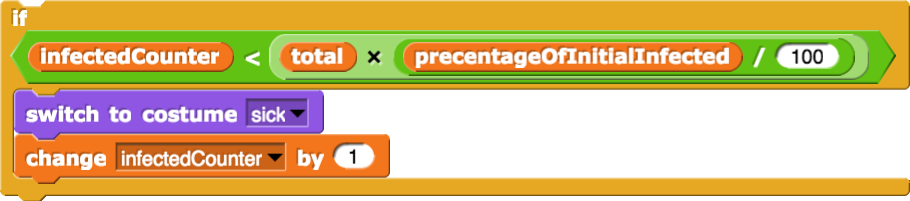
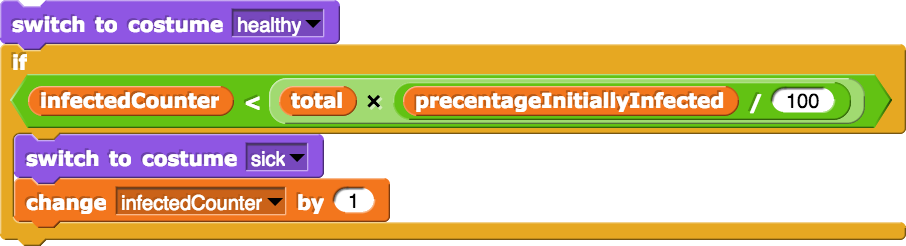
U5L3 latest edits

diff --git a/cur/programming/5-algorithms/3-simulation/3b-disease-spread-hints.html b/cur/programming/5-algorithms/3-simulation/3b-disease-spread-hints.html
@@ -16,26 +16,26 @@
                     
                 </li>
                 <li>
-                    You will need to keep track of time until the entire population is infected.<br />
+                    Keep track of time until the entire population is infected.<br />
                     <img class="indent" src="/bjc-r/img/5-algorithms/img_disease-spread/timerCode.png"  height="117" alt=""/>
 					</li>
                 <li>
-                    As you don't know ahead of time how many agents will need to be created, you can create a single agent sprite and then use the <code>create a clone of myself</code> block in Snap<em>!</em> to generate a population of size input by the user.  <br />
+                    As you don't know ahead of time how many agents will be created, create a single agent sprite and then use the <code>create a clone of myself</code> block in Snap<em>!</em> to generate a population of size input by the user.  <br />
                     <img class="indent" src="/bjc-r/img/5-algorithms/img_disease-spread/cloneCode3.png" height="84" alt=""/>
                 </li>
                 
-                    <li>You can initialize clones and give them behavior by using the <code>when I start as a clone</code> block.<br>
+                    <li>Initialize clones and give them behavior by using the <code>when I start as a clone</code> block.<br>
                     <img class="indent" src="/bjc-r/img/5-algorithms/img_disease-spread/cloneCode2.png"  height="55" alt=""/>
                     </li>
                 <li>
-                    Initialize the clones by giving them sick or healthy costume. Assign sick costumes to clones as they are being created until the user-specified percentage of the population initially infected is reached. <br>
-                 <img class="indent" src="/bjc-r/img/5-algorithms/img_disease-spread/ifPercentage.png"  height="150" alt=""/>
+                    Give the clones a sick or a healthy costume during their initialization. Assign sick costumes to clones as they are being created until the user-specified percentage of the population initially infected, is reached. <br>
+                 <img class="indent" src="/bjc-r/img/5-algorithms/img_disease-spread/ifPercentage.png"  height="185" alt=""/>
        
                   
                 </li>
                 <li>
                     Give a random direction and location to clones initially but once the timing starts, clones should move in a straight line with the user-specified speed until they hit an edge and bounce.  </li>
-                   <li> If a healthy agent collides with a sick one, it should get sick.  To do this, you will need to detect collision with a sick agent. <br />  
+                   <li> If a healthy agent collides with a sick one, it should get sick.  To do this, write code to detect collision with a sick agent. <br />  
                     <img class="indent" src="/bjc-r/img/5-algorithms/img_disease-spread/collideWithSick.png" width="631"  alt=""/><br />
                     Build this block instead of using the <img src="/bjc-r/img/5-algorithms/img_disease-spread/touchingColor.png"  height="36" alt=""/> block of the Sensing menu because Snap<em>!</em> can be very slow in sensing touching by color but is very fast sensing touching by sprite.
                 </li>

diff --git a/cur/teaching-guide/U5/lab-pages/3-simulations.html b/cur/teaching-guide/U5/lab-pages/3-simulations.html
@@ -8,7 +8,7 @@
 
     <body>
         <h2>Lab 3: Models and Simulations</h2>
-        <p>After a general introduction to the topic, students first build a simulation to model the flipping of a coin.  This introductory simulation is intended to give them experience in a simple and familiar context.  Then the students will model and simulate the spread of a disease in a population.  This is a very complex phenomena to study in real life so the  virtual model and its simulation will require significant simplification.  The agents in the population will be colored dots, blue for healthy and red for sick.  The agents will move at a constant speed and the collisions between a sick and a healthy agent will lead to the healthy agent becoming also sick. The simulation will run until the entire population is infected.  The running time of the simulation will depend on various parameters input by the user such as the population size, the percentage of the population initially sick and the speed at which the agents are moving. Students will adjust these various parameters and formulate, refine, and test hypotheses about the resulting patterns in the spread of the disease. </p> 
+        <p>After a general introduction to the topic, students first build a simulation to model the flipping of a coin.  This introductory simulation is intended to give them experience in a simple and familiar context.  Then, if selected as a "Teacher's Choice" project, the students will model and simulate the spread of a disease in a population.  This is a very complex phenomena to study in real life so the  virtual model and its simulation will require significant simplification.  The agents in the population will be colored dots, for example, blue for healthy and red for sick.  The agents will move at a constant speed and the collisions between a sick and a healthy agent will lead to the healthy agent becoming also sick. The simulation will run until the entire population is infected.  The running time of the simulation will depend on various parameters input by the user such as the population size, the percentage of the population initially sick and the speed at which the agents are moving. Students will adjust these various parameters and formulate, refine, and test hypotheses about the resulting patterns in the spread of the disease. </p> 
         
 	
 		<h3>Pacing:</h3>

diff --git a/cur/programming/5-algorithms/3-simulation/1-intro-to-simulations.html b/cur/programming/5-algorithms/3-simulation/1-intro-to-simulations.html
@@ -35,7 +35,7 @@ Models and simulations are computer representations of complex phenomena in the 
 <li>Experimenting in the real world may be <strong>unethical</strong>, such as giving a population a disease to test how fast it spreads.</li>
 </ul>
 
-<p>Computer models rarely capture the full complexity of real situations.  For example, models of global climate change might account for geological fault lines that cause earthquakes, the course of rivers, wind patterns, local plants and animals, and many other factors.  So researchers, make <em>simplifying assumptions</em> in their models, based on their past experiences making predictions.</p>
+<p>Computer models rarely capture the full complexity of real situations.  For example, models that scientist use to predict the impact of global climate change have to account for hundreds of interconnected factors such as wind patterns, the course of rivers, geological fault lines that cause earthquakes, and interactions of local plants and animals.  It would be impossible to include all of these dependencies in a model.  So, researchers have to make <em>simplifying assumptions</em> in their models, based on their past experiences making predictions.</p>
 
 <p>Researchers may use an <em>iterative design process</em>, starting with a very simple model and refining that model to make it more realistic for the next simulation.  Highly detailed models may push the limits of current computer speeds.  So, researchers may have to limit the complexity of the model.  Complex models and simulations depend on abstractions (simplifications) to avoid the many details of the real world phenomena. 
 

diff --git a/cur/programming/5-algorithms/3-simulation/2-flipping-a-coin.html b/cur/programming/5-algorithms/3-simulation/2-flipping-a-coin.html
@@ -17,10 +17,10 @@
             <ol>
                 <li>Play with the Snap<em>!</em> file <a href="http://snap.berkeley.edu/snapsource/snap.html#present:Username=bjcsolutions&ProjectName=U5L6p2CoinFlip_Teacher&hideControls" target="_blank">linked here</a> to see a possible implementation of what you are trying to achieve in the simulation.  Before starting to program, plan out the sequence of events that will occur in your simulation:<br>
                 <ul>
-                <li>When and how will the user input the desired number of flips?  What should happen if the user enters a value that is not a valid input for the number of flips?</li>
+                <li>When and how will the user input the desired number of flips?</li>
                 <li>How will the program simulate the coin toss mathematically?</li>
                 <li>How will the program simulate the coin toss visually?  What will the user see?</li>
-                <li>What are the variables to create to keep track of the important parameters in the simulation?  When should these be initialized?  When should they be updated?</li>
+                <li>What are the variables to create in order to keep track of the important parameters in the simulation?  When should these be initialized?  When should they be updated?</li>
                 
                 </ul>
                 Work through your pseudocode with a few example inputs until you have debugged it as much as possible prior to building it in Snap<em>!</em>.

diff --git a/cur/programming/5-algorithms/3-simulation/2b-flipping-a-coin-hints.html b/cur/programming/5-algorithms/3-simulation/2b-flipping-a-coin-hints.html
@@ -13,7 +13,7 @@
             <ol>
                 <li>Create variables <var>Heads</var>, <var>Tails</var>, <var>Total</var> to keep track of the number of heads, tails and total tosses, and initialize these variables.</li>
                 <li>Create a custom <code>TossCoin</code> block that simulates a coin being tossed (by rapidly switching between Heads and Tails costumes a few times before randomly settling on a choice), and updates the variables accordingly.</li>
-                <li>Ask the user how many times they wish to toss the coin, and if the value entered is a valid number, repeat the simulation of the coin toss that many times.</li>
+                <li>Ask the user how many times they wish to toss the coin, and repeat the simulation of the coin toss that many times.</li>
   
                 <li>Play a sound that signals the end of a flip.</li>
                 <li>Add a brief pause between each toss.  (Make sure to eliminate this pause when simulating 100's of coin tosses)</li>

diff --git a/cur/programming/5-algorithms/3-simulation/3-disease-spread.html b/cur/programming/5-algorithms/3-simulation/3-disease-spread.html
@@ -24,7 +24,7 @@
                     Your code should:<br />
                     
                     <ul>
-                        <li>Ask the user for the population size, percentage of the population initially infected and the speed at which the agents should be moving.</li>
+                        <li>Ask the user for the population size, the percentage of the population initially infected and the speed at which the agents should be moving.</li>
                         <li>Create an agent sprite and use the <code>create a clone of myself</code> block of Snap<em>!</em> to generate a population of size input by the user.</li>
                         <div class="sidenote">Do this on your own but if you get stuck, you can use <a href="/bjc-r/cur/programming/5-algorithms/3-simulation/3b-disease-spread-hints.html" target="_blank">this page</a> for hints.</div>
                         <li>Make the user-specified percentage of the population sick, make the rest of the population healthy.</li>
